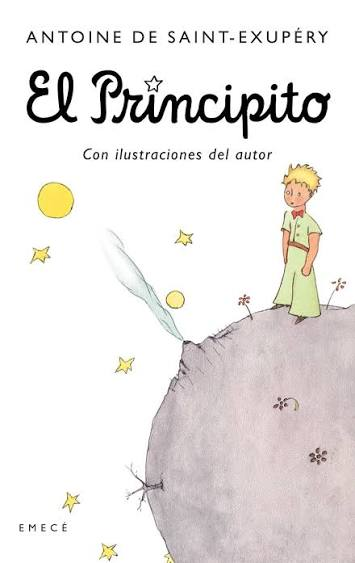
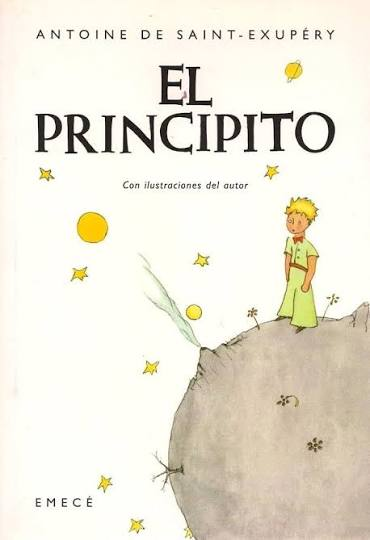
agregando

diff --git a/src/paginas/eventos.jsx b/src/paginas/eventos.jsx
@@ -22,17 +22,17 @@ import {
 const EVENTOS_INICIALES = [
   {
     id: 1,
-    titulo: 'Presentación oficial: "Las Sombras del Silencio"',
-    autor: 'Laura Restrepo',
-    libro: 'Las Sombras del Silencio',
-    fecha: '2026-10-05',
+    titulo: 'Presentación oficial: "cien años"',
+    autor: 'Gabriel García Márquez',
+    libro: 'Cien años de soledad',
+    fecha: '30 de mayo de 1967',
     horarios: ['17:00 HS', '18:30 HS', '20:00 HS'],
     formato: 'Presencial',
     lugar: 'Librería Central - Salón Principal (Madrid)',
-    categoria: 'Presentación',
+    categoria: 'relata la saga de siete generaciones de la familia Buendía en el pueblo de Macondo. A través del realismo mágico, la obra entrelaza la soledad, el amor, los conflictos políticos y el destino trágico de sus personajes, reflejando de forma alegórica la historia de América Latina.',
     cuposTotales: 80,
     cuposReservados: 65,
-    imagen: 'https://images.unsplash.com/photo-1544947950-fa07a98d237f?auto=format&fit=crop&w=800&q=80',
+    imagen: 's',
     descripcion: 'Charla exclusiva con la autora sobre el proceso creativo tras su última novela negra bestseller. Firma de ejemplares al finalizar.'
   },
   {
@@ -97,18 +97,18 @@ const EVENTOS_INICIALES = [
   },
   {
     id: 6,
-    titulo: 'Noche Poética & Recital: "Veinte Poemas de Amor"',
-    autor: 'Pablo Neruda',
-    libro: 'Veinte Poemas de Amor y una Canción Desesperada',
-    fecha: '2026-11-10',
+    titulo: 'El Principito',
+    autor: 'Antoine de Saint-Exupéry',
+    libro: 'El Principito (Le Petit Prince)',
+    fecha: '6 de abril de 1943',
     horarios: ['20:00 HS', '21:30 HS'],
     formato: 'Presencial',
     lugar: 'Café Literario "El Desván" (Santiago)',
     categoria: 'Club de Lectura',
     cuposTotales: 40,
     cuposReservados: 15,
-    imagen: 'https://images.unsplash.com/photo-1497633762265-9d179a990aa6?auto=format&fit=crop&w=800&q=80',
-    descripcion: 'Una velada íntima de lectura pública de poesía acompañada de música en vivo y degustación de café de especialidad.'
+    imagen: '/imagenesL/principitoL.jpg',
+    descripcion: 'es una obra maestra de la literatura universal que, bajo la apariencia de un cuento infantil, aborda profundas reflexiones filosóficas sobre la naturaleza humana, el amor, la amistad, la soledad y el sentido de la vida.'
   },
   {
     id: 7,
@@ -122,7 +122,7 @@ const EVENTOS_INICIALES = [
     categoria: 'estreno',
     cuposTotales: 100,
     cuposReservados: 52,
-    imagen: '/imagenesL/orgull',
+    imagen: '/imagenesL/orgullo.png',
     descripcion: 'Exploramos cómo las narrativas y la sátira social de Jane Austen siguen influyendo en las historias románticas contemporáneas.'
   }
 ];

diff --git a/src/css/eventos.css b/src/css/eventos.css
@@ -165,17 +165,31 @@
   background: #FFFFFF;
 }
 
-/* Grilla de eventos */
+/* Grilla de eventos: cards agrupados de 3 o 4 por fila */
 .eventos-grid {
   display: grid;
   grid-template-columns: 1fr;
-  gap: 2rem;
+  gap: 1.5rem;
   align-items: stretch;
+}
+
+@media (min-width: 576px) {
+  .eventos-grid {
+    grid-template-columns: repeat(2, minmax(0, 1fr));
+  }
 }
 
 @media (min-width: 850px) {
   .eventos-grid {
-    grid-template-columns: repeat(2, minmax(0, 1fr));
+    grid-template-columns: repeat(3, minmax(0, 1fr));
+    gap: 1.75rem;
+  }
+}
+
+@media (min-width: 1150px) {
+  .eventos-grid {
+    grid-template-columns: repeat(4, minmax(0, 1fr));
+    gap: 1.5rem;
   }
 }
 
@@ -203,7 +217,8 @@
   position: relative;
   overflow: hidden;
   width: 100%;
-  height: 13rem;
+  height: 18rem;
+  aspect-ratio: 2 / 3;
   flex-shrink: 0;
 }
 
